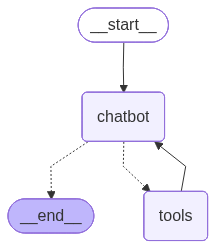
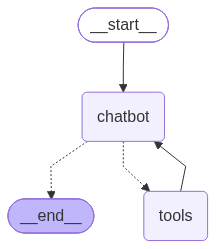
refactor: remove unused imports and update TavilySearch to TavilySearchResults

diff --git a/core/tools/news.py b/core/tools/news.py
@@ -8,7 +8,7 @@
 # ============================================================
 
 
-from langchain_tavily import TavilySearch
+from langchain_tavily import TavilySearchResults
 from langchain.tools import tool
 
 from config.settings import settings
@@ -26,12 +26,12 @@ async def get_news(topic: str):
         return "Tavily API key is missing."
 
     try:
-        search = TavilySearch(
+        search = TavilySearchResults(
             max_results=5,
             tavily_api_key=settings.tavily_api_key,
         )
 
-        results =  search.invoke({"query": f"Latest news about {topic}"})
+        results = search.invoke({"query": f"Latest news about {topic}"})
 
         logger.debug("News tool executed for %s", topic)
 

diff --git a/services/chat_service.py b/services/chat_service.py
@@ -11,9 +11,7 @@ from collections.abc import AsyncGenerator
 
 from langchain.messages import AIMessage, HumanMessage
 from langchain_core.messages import BaseMessage
-from requests import session
 
-from core.database.models import message
 from core.database.repositories.session_repository import SessionRepository
 from core.llm.formatter import LLMResponseFormatter
 from core.llm.manager import LLMManager, llm
@@ -87,7 +85,7 @@ class ChatService:
         #         }
         #     },
         # )
-        state = await self._graph.astream(
+        state = await self._graph.ainvoke(
             {
                 "messages": messages,
             },

diff --git a/core/database/models/session.py b/core/database/models/session.py
@@ -10,9 +10,7 @@ class SessionModel(Base):
     """Database model for chat sessions."""
 
     __tablename__ = "sessions"
-    from datetime import datetime, UTC
 
-    default = lambda: datetime.now(UTC)
     id: Mapped[str] = mapped_column(primary_key=True)
 
     title: Mapped[str] = mapped_column(nullable=False)

diff --git a/core/graph/graph.py b/core/graph/graph.py
@@ -1,7 +1,6 @@
 from langgraph.graph import StateGraph
 from langgraph.graph import START, END
 from langgraph.prebuilt import ToolNode
-from IPython.display import Image, display
 from core.graph.nodes import create_chatbot_node
 from core.graph.state import GraphState
 from core.llm.manager import LLMManager
@@ -9,7 +8,6 @@ from core.tools.news import get_news
 from core.tools.search import get_google_search
 from core.tools.weather import get_weather
 from langgraph.prebuilt import tools_condition
-from langgraph.checkpoint.sqlite.aio import AsyncSqliteSaver
 from langgraph.checkpoint.base import BaseCheckpointSaver
 
 class GraphBuilder: